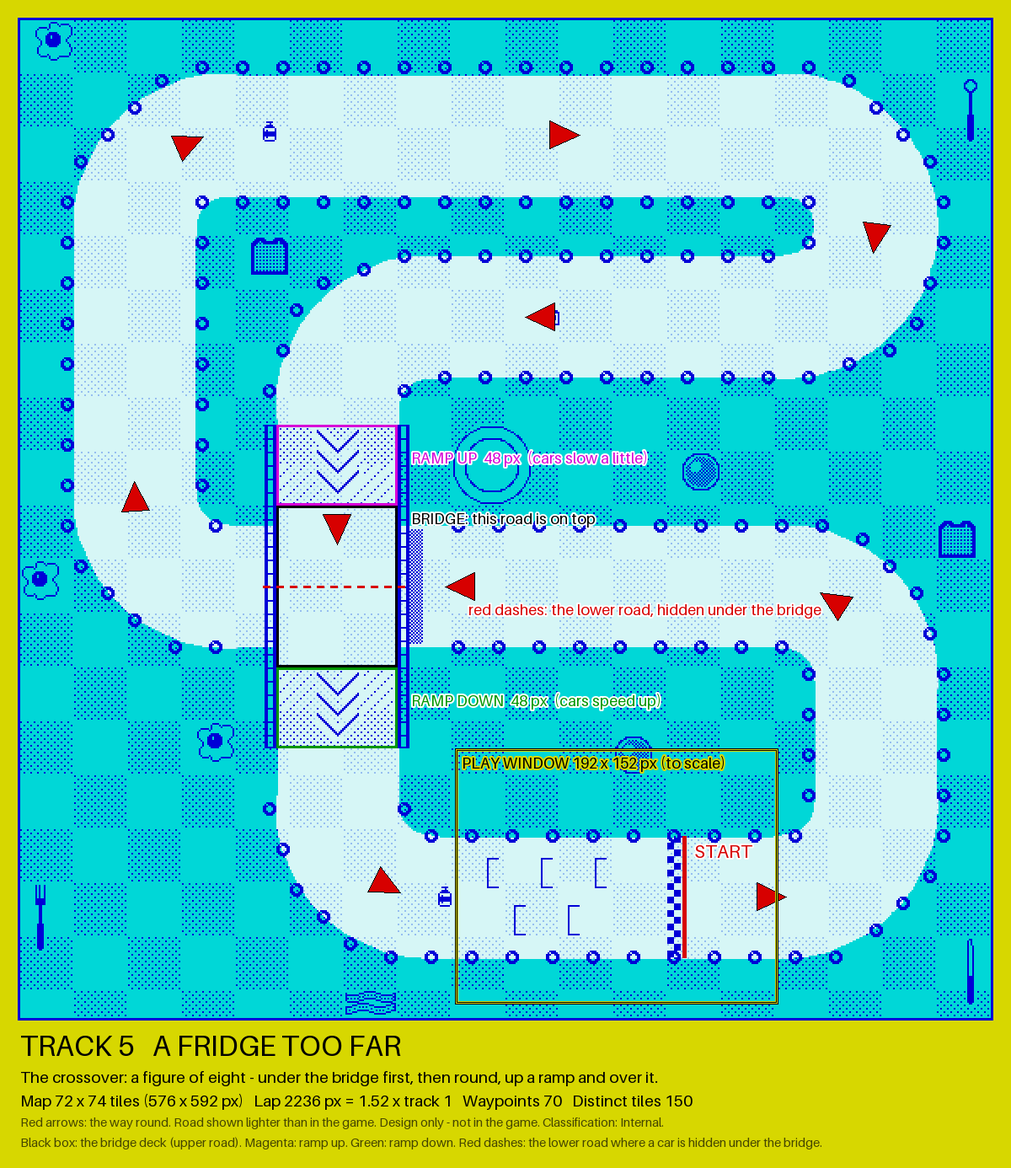
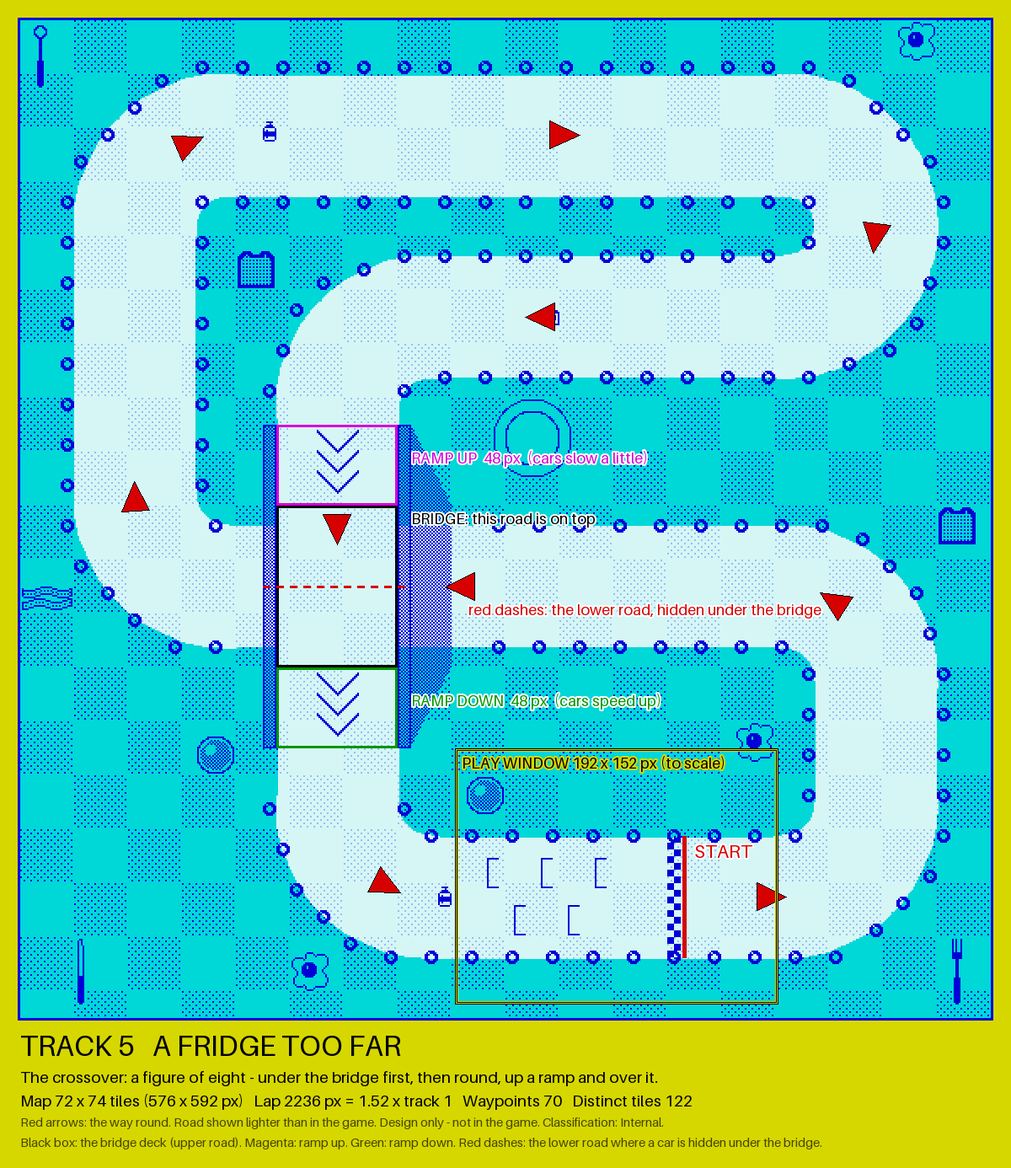
Track 5: the bridge's tapered shadow and plainer walls - a sheet of options
Claude-Session: https://claude.ai/code/session_01476U86GiAC8cKs57wAJvc3

diff --git a/tools/make_track_designs.py b/tools/make_track_designs.py
@@ -5,6 +5,7 @@ longer tracks. This script only makes design material - it does NOT touch the ga
     docs/design/tracks/track5.png                           the crossover track (a design: the game has no bridges)
     docs/design/tracks/crossover_closeup.png                how the bridge could be drawn, three ways
     docs/design/tracks/crossover_walls.png                  the bridge with side walls and no O's, three walls
+    docs/design/tracks/crossover_shadow.png                 the bridge with a tapering shadow; shadow and wall options
     docs/design/tracks/tracks_overview.png                  all five at the same scale
     docs/design/tracks/TRACKS.md                            the note, with the figures
     docs/design/tracks/tracks_data.json                     vertices, waypoints, figures
@@ -326,6 +327,55 @@ def walls_ink(b, variant):
             if on or end: out.add((x0 - k, y)); out.add((x1 + k, y))
     return out
 
+WALL8 = 8         # px: the later walls are one 8 x 8 colour cell wide, on the cell grid (so their paper could be white)
+SHADOW_MAX = 24   # px: how far the shadow reaches beside the level deck (the bridge at its highest)
+SHADOW_BOX = 84   # px to the right of the upper road's middle: no cereal O's there either (the shadow falls on that side)
+def bridge_height(b, y):
+    """0 at the foot of a ramp, 1 on the level deck."""
+    (u0, u1), (d0, d1), (r0, r1) = b['ramp_up'], b['deck'], b['ramp_down']
+    if u0 <= y < u1: return (y - u0) / (u1 - u0)
+    if d0 <= y < d1: return 1.0
+    if r0 <= y < r1: return (r1 - 1 - y) / (r1 - r0)
+    return 0.0
+def shadow_ink(b, shadow='S1', wall='V1'):
+    """The bridge with a shadow that shows its height (Grant, after crossover_walls.png): a wedge
+    of dither on the ground beside the bridge, nothing at the foot of each ramp, widest beside
+    the level deck - where it also lies across the lower road. Open deck, ramp arrows, no
+    shading on the ramps themselves (that cost about 30 tiles), walls 8 px wide on the cell grid.
+      shadow  S1 one flat 50% dither, to the right (light from the left)
+              S2 the same wedge graded: 50% by the wall, 25% in its outer half
+              S3 a smaller 50% shadow on both sides
+      wall    V1 a line each side with 50% dither between
+              V2 a two-tone bar: a 4 px blue stripe, a 3 px pale stripe, a line
+              V3 kerb blocks: 8 px blue, 8 px pale, alternating
+    Returns (ink pixels, pixels of the walls' cells) - the second for showing white paper."""
+    xc, yc = b['cross']; x0, x1 = xc - ROAD // 2, xc + ROAD // 2 - 1; out = set(); cells = set()
+    (u0, u1), (d0, d1), (r0, r1) = b['ramp_up'], b['deck'], b['ramp_down']
+    assert (x0 - WALL8) % 8 == 0 and (x1 + 1) % 8 == 0 and u0 % 8 == 0 and r1 % 8 == 0, 'the walls must sit on the 8 px cell grid'
+    for a, z in ((u0, u1), (r0, r1)):                           # the arrows down the ramps
+        for y in range(a + 4, z - 8, 12):
+            for k in range(0, 13):
+                for m in (-1, 1): out.add((xc + m * k, y + 12 - k)); out.add((xc + m * k, y + 11 - k))
+    for y in range(u0, r1):
+        h = bridge_height(b, y)
+        sides = ((1, SHADOW_MAX),) if shadow != 'S3' else ((1, SHADOW_MAX // 2), (-1, SHADOW_MAX // 2))
+        for side, wmax in sides:                                # the shadow: as wide as the bridge is high
+            w = int(round(h * wmax))
+            for i in range(w):
+                x = x1 + WALL8 + 1 + i if side > 0 else x0 - WALL8 - 1 - i
+                if shadow == 'S2' and i >= (w + 1) // 2: on = y % 2 == 0 and (x + y) % 4 == 0      # 25%
+                else: on = (x + y) % 2 == 0                                                        # 50%
+                if on: out.add((x, y))
+        for k in range(WALL8):                                  # the walls: k = 0 outside .. 7 beside the road
+            end = y in (u0, r1 - 1)
+            for x in (x0 - WALL8 + k, x1 + WALL8 - k):
+                cells.add((x, y))
+                if wall == 'V1': on = k in (0, WALL8 - 1) or (x + y) % 2 == 0
+                elif wall == 'V2': on = k < 4 or k == WALL8 - 1
+                else: on = k in (0, WALL8 - 1) or ((y - u0) // 8) % 2 == 0
+                if on or end: out.add((x, y))
+    return out, cells
+
 def build_world(t, walls=True):
     W, H, PATH, SY, LX = t['W'], t['H'], t['path'], t['sy'], t['lx']
     PW, PH = W * 8, H * 8
@@ -362,14 +412,18 @@ def build_world(t, walls=True):
         OS = [(ox, oy) for ox, oy in OS if not inner[ox + 4, oy + 4]]
         if walls:            # the bridge and its ramps have walls: no O's beside them, on either road
             b_ = t['bridge']
-            OS = [(ox, oy) for ox, oy in OS if not (abs(ox + 4 - b_['cross'][0]) <= WALL_BOX and b_['ramp_up'][0] - 4 <= oy + 4 <= b_['ramp_down'][1] + 4)]
+            right = WALL_BOX if walls == 'W3' else SHADOW_BOX   # (the shadow's side: no O's in the shadow)
+            OS = [(ox, oy) for ox, oy in OS if not (-WALL_BOX <= ox + 4 - b_['cross'][0] <= right and b_['ramp_up'][0] - 4 <= oy + 4 <= b_['ramp_down'][1] + 4)]
     for ox, oy in OS:
         for j, r in enumerate(O_RING):
             for i, c in enumerate(r):
                 if c == '#': px[ox + i, oy + j] = 1
     if t.get('bridge'):      # the bridge's own ink, so its tiles are counted: with walls (the double rail, W3 of
                              # crossover_walls.png), or the first idea (style A of crossover_closeup.png)
-        for (x, y) in (walls_ink(t['bridge'], 'W3') if walls else bridge_ink(t['bridge'], 'A')): px[x, y] = 1
+        # walls: False = the first idea (style A); 'W3' = crossover_walls.png's double rail; True = the tapering shadow
+        # S1 with the dithered wall V1 (the one in track5.png); or a (shadow, wall) pair from crossover_shadow.png
+        look = ('S1', 'V1') if walls is True else walls
+        for (x, y) in (bridge_ink(t['bridge'], 'A') if not walls else walls_ink(t['bridge'], 'W3') if walls == 'W3' else shadow_ink(t['bridge'], *look)[0]): px[x, y] = 1
     # the grid and the start line (track 1: the line at x = 288, the cars 40 .. 104 px behind it)
     LANE_A, LANE_B = SY - 14 - 8, SY + 14 - 8
     GRID = [(LX - 40, LANE_A), (LX - 56, LANE_B), (LX - 72, LANE_A), (LX - 88, LANE_B), (LX - 104, LANE_A)]
@@ -391,6 +445,10 @@ def build_world(t, walls=True):
     far = np.array(road_mask(ROAD + 24), dtype=bool)
     tile_far = far.reshape(H, 8, W, 8).any(axis=(1, 3))       # a tile with any of the road's band in it
     taken = set()
+    if t.get('bridge') and walls and walls != 'W3':            # no breakfast things in the bridge's shadow
+        b_ = t['bridge']
+        taken |= {(tx, ty) for tx in range((b_['cross'][0] - WALL_BOX) // 8, (b_['cross'][0] + SHADOW_BOX) // 8 + 1)
+                  for ty in range(b_['ramp_up'][0] // 8 - 1, b_['ramp_down'][1] // 8 + 1)}
     def free(tx, ty, w, h):
         for j in range(h):
             for i in range(w):
@@ -657,7 +715,7 @@ def closeup_picture(t, s=4):
 def walls_picture(t, s=4):
     """The bridge with side walls (Grant, after the first close-up): a mix of A and B, walls from
     ramp foot to ramp foot and no cereal O's beside them. One idea, three ways to draw the wall."""
-    b = t['bridge']; w = t['w']; xc, yc = b['cross']
+    b = t['bridge']; w = t['w_walls']; xc, yc = b['cross']
     cw, ch = 200, 216
     cx0, cy0 = xc - cw // 2 + 4, yc - ch // 2
     ink_c, sol_c = car_art('YOU')
@@ -700,6 +758,75 @@ def walls_picture(t, s=4):
         d.text((pad, y + i * 20), line, fill=(70, 70, 0) if i == 4 else BLACK, font=font(15))
     im.save(os.path.join(OUTDIR, 'crossover_walls.png'))
 
+def shadow_picture(t, s=4):
+    """A sheet of options for the bridge with a tapering shadow: three shadows (top row), then
+    wall drawings on shadow S1 (bottom row) - the two-tone walls with white paper and in cyan only."""
+    b = t['bridge']; w = t['w']; xc, yc = b['cross']
+    cw, ch = 176, 216; cx0, cy0 = xc - 72, yc - ch // 2
+    x0, x1 = xc - ROAD // 2, xc + ROAD // 2 - 1
+    ink_c, sol_c = car_art('YOU')
+    mine, _ = shadow_ink(b, 'S1', 'V1')
+    def halo(sol, n=2):                                         # a car's outline grown n px: the shadow stops short of it
+        P = np.pad(sol, n); out = P.copy()
+        for dy in range(-n, n + 1):
+            for dx in range(-n, n + 1): out |= np.roll(np.roll(P, dy, 0), dx, 1)
+        return out
+    def panel(shadow, wall, white):
+        base = w['ink'].copy()
+        for (x, y) in mine: base[y, x] = False                  # (the world was built with S1 + V1: take it off)
+        bit = base | w['cloth_on']
+        ink, cells = shadow_ink(b, shadow, wall)
+        for (x, y) in ink:                                      # the shadow lies on the ground and on the lower road
+            if x > x1 + WALL8 or x < x0 - WALL8: bit[y, x] = True
+        ci, cs = np.rot90(ink_c), np.rot90(sol_c)               # the car below, driving left, half under the bridge
+        cx, cy = x1 + WALL8 - 9, yc - 16
+        hl = halo(cs); bit[cy - 2:cy + 22, cx - 2:cx + 22][hl] = False
+        bit[cy:cy + 20, cx:cx + 20][ci] = True
+        bit[b['ramp_up'][0]:b['ramp_down'][1], x0 - WALL8:x1 + WALL8 + 1] = False     # the bridge, ramps and walls go over it
+        for (x, y) in ink:
+            if x0 - WALL8 <= x <= x1 + WALL8: bit[y, x] = True
+        ci, cs = np.rot90(ink_c, 2), np.rot90(sol_c, 2)         # the car on the deck, whole
+        sl = bit[yc - 34:yc - 14, xc - 22:xc - 2]; sl[cs] = False; sl[ci] = True
+        a = np.empty(bit.shape + (3,), dtype=np.uint8); a[:] = CYAN
+        if white:                                               # the walls' cells: blue ink on WHITE paper
+            for (x, y) in cells: a[y, x] = WHITE
+        a[bit] = BLUE
+        return Image.fromarray(a[cy0:cy0 + ch, cx0:cx0 + cw]).resize((cw * s, ch * s), Image.NEAREST)
+    tiles = lambda sh, wl: t['w']['tiles'] if (sh, wl) == ('S1', 'V1') else build_world(t, walls=(sh, wl))['tiles']
+    rows = [('SHADOW OPTIONS - the wall is V1 in all three. The shadow is as wide as the bridge is high: nothing at the foot of each ramp, widest beside the level deck.',
+             [('S1', 'V1', False, 'S1  FLAT SHADOW', ['one 50% dither, on the right', '(light from the left)']),
+              ('S2', 'V1', False, 'S2  GRADED SHADOW', ['50% by the wall, 25% in the', 'outer half of the wedge']),
+              ('S3', 'V1', False, 'S3  BOTH SIDES', ['a half-width 50% shadow', 'each side (light from above)'])]),
+            ('WALL OPTIONS - on shadow S1. V1 is in the top row. V2 and V3 are each shown twice: with WHITE paper in the walls\' cells, and in the window\'s own blue and cyan.',
+             [('S1', 'V2', True, 'V2  TWO-TONE BAR, WHITE', ['blue stripe, white stripe', 'needs white-paper cells (a cost)']),
+              ('S1', 'V2', False, 'V2  THE SAME IN CYAN ONLY', ['blue stripe, cyan stripe', 'what the game can do today']),
+              ('S1', 'V3', True, 'V3  KERB BLOCKS, WHITE', ['blue and white blocks, 8 px each', 'needs white-paper cells (a cost)']),
+              ('S1', 'V3', False, 'V3  THE SAME IN CYAN ONLY', ['blue and cyan blocks', 'what the game can do today'])])]
+    pad, head, rhead, cap, foot = 24, 56, 34, 104, 150
+    wid = pad + (cw * s + pad) * 4; rowh = rhead + ch * s + cap
+    im = Image.new('RGB', (wid, head + rowh * len(rows) + foot), YELLOW); d = ImageDraw.Draw(im)
+    d.text((pad, 12), 'TRACK 5 BRIDGE - a shadow that shows the height, and softer walls (mock-up, 4x, the game\'s blue ink on cyan)', fill=BLACK, font=font(28))
+    for r, (title, panels) in enumerate(rows):
+        y0 = head + r * rowh
+        d.text((pad, y0 + 4), title, fill=BLACK, font=font(19))
+        for k, (sh, wl, white, name, sub) in enumerate(panels):
+            x = pad + k * (cw * s + pad); y = y0 + rhead
+            im.paste(panel(sh, wl, white), (x, y))
+            d.rectangle([x - 2, y - 2, x + cw * s + 1, y + ch * s + 1], outline=BLUE, width=2)
+            d.text((x, y + ch * s + 6), name, fill=BLACK, font=font(24))
+            for i, line in enumerate(sub + ['track 5 would need %d tiles' % tiles(sh, wl)]):
+                d.text((x, y + ch * s + 36 + i * 20), line, fill=BLACK, font=font(17))
+    y = head + rowh * len(rows) + 4
+    for i, line in enumerate([
+            'In every picture: open deck, arrows on the ramps, no shading on the ramps themselves, no cereal O\'s beside the bridge or in its shadow, one car on the deck, one on the lower road half hidden going under.',
+            'The shadow stops 2 px short of a car\'s outline, so the car coming out from under the bridge stays clear. The lower road is shaded where the shadow crosses it, beside the deck.',
+            'COLOUR TRUTH: the play window is blue ink on cyan paper, and a Spectrum cell (8 x 8 px) holds only two colours. White is possible only because each wall here is exactly one cell wide, on the cell grid,',
+            'with nothing cyan inside those cells - their paper is switched to white. The game does not change cell colours inside the scrolling window today: doing it would cost speed whenever the bridge is in view',
+            '(an estimate - not measured), and the white cells could only move 8 px at a time while the picture scrolls by the pixel. The "cyan only" pictures need none of that.',
+            'A mock-up drawn by tools/make_track_designs.py - not from the game, which has no bridges yet. Classification: Internal.']):
+        d.text((pad, y + i * 22), line, fill=(70, 70, 0) if i == 5 else BLACK, font=font(16))
+    im.save(os.path.join(OUTDIR, 'crossover_shadow.png'))
+
 # ------------------------------------------------------------------ measure, check, write
 def main():
     os.makedirs(OUTDIR, exist_ok=True)
@@ -707,7 +834,9 @@ def main():
     for t in TRACKS:
         p = t['path']; t['lap'] = lap_length(p); t['mult'] = t['lap'] / base
         t['w'] = build_world(t)
-        if t.get('bridge'): t['w_open'] = build_world(t, walls=False)     # (as first drawn: O's by the bridge, no walls)
+        if t.get('bridge'):
+            t['w_open'] = build_world(t, walls=False)     # (as first drawn: O's by the bridge, no walls)
+            t['w_walls'] = build_world(t, walls='W3')     # (as crossover_walls.png was drawn)
         xs, ys = [q[0] for q in p], [q[1] for q in p]
         t['margin'] = min(min(xs), t['W'] * 8 - max(xs), min(ys), t['H'] * 8 - max(ys))
         t['crossings'] = self_crossings(p)
@@ -759,7 +888,7 @@ def main():
         gridd = min(math.hypot(gx + 10 - xc, gy + 10 - yc) for gx, gy in t['w']['GRID'])
         os_on = sum(1 for ox, oy in t['w']['OS'] if abs(ox + 4 - xc) < 60 and abs(oy + 4 - yc) < 60
                     and (abs(ox + 4 - xc) < ROAD // 2 - 4 or abs(oy + 4 - yc) < ROAD // 2 - 4))
-        os_wall = sum(1 for ox, oy in t['w']['OS'] if abs(ox + 4 - xc) <= WALL_BOX and b['ramp_up'][0] - 4 <= oy + 4 <= b['ramp_down'][1] + 4)
+        os_wall = sum(1 for ox, oy in t['w']['OS'] if -WALL_BOX <= ox + 4 - xc <= SHADOW_BOX and b['ramp_up'][0] - 4 <= oy + 4 <= b['ramp_down'][1] + 4)
         wl = [1 if abs(x - xc) < 2 and b['ramp_up'][0] <= y <= b['ramp_down'][1] else 0 for x, y in t['w']['wps']]
         t['wp_levels'] = wl
         xp = t['xpts']
@@ -771,7 +900,7 @@ def main():
             ('crossing to the start straight (px between the middles of the roads; want >= 150)', float(t['sy'] - yc), t['sy'] - yc >= 150),
             ('crossing to the nearest grid box (px; want >= 150)', gridd, gridd >= 150),
             ('cereal O\'s standing on either road at the crossing (count)', os_on, os_on == 0),
-            ('cereal O\'s beside the bridge or its ramps, where the walls are (count)', os_wall, os_wall == 0),
+            ('cereal O\'s beside the bridge or its ramps, or in its shadow (count)', os_wall, os_wall == 0),
             ('waypoints on the upper level (ramps and deck)', sum(wl), sum(wl) >= 3),
         ]
         t['bridge_checks'] = bc
@@ -781,7 +910,7 @@ def main():
             print('   %s  %-90s %s' % ('PASS' if ok else 'FAIL', what, ('%.1f' % val) if isinstance(val, float) else val))
     for t in TRACKS[1:]: track_picture(t)
     for t in TRACKS:
-        if t.get('bridge'): closeup_picture(t); walls_picture(t)
+        if t.get('bridge'): closeup_picture(t); walls_picture(t); shadow_picture(t)
     overview_picture(TRACKS)
     json.dump([dict(track=t['n'], name=t['name'], map_tiles=[t['W'], t['H']], lap_px=round(t['lap'], 1), multiple=round(t['mult'], 3),
                     waypoints=t['w']['wps'], distinct_tiles=t['w']['tiles'], cereal_os=len(t['w']['OS']),
@@ -807,7 +936,7 @@ HARD = {
         "The start straight is short (222 pixels): the grid fits, but the first bend comes sooner after the line than on track 1."],
     5: ["**The game cannot do this today: it has no bridges.** Everything under 'What the crossover needs in the game' below is new work.",
         "Needs a taller map: 74 rows instead of 64 (the same 72 wide), with the same changes as track 3.",
-        "The bridge's pictures add tiles (counted here with the double-rail walls, W3), and its deck needs a mask so it can be redrawn over a car underneath.",
+        "The bridge's pictures add tiles (counted here with the tapering shadow S1 and the dithered wall V1), and its deck needs a mask so it can be redrawn over a car underneath.",
         "The start straight is the shortest of all five: the grid fits, with as much room behind the line as it needs but less after it than track 1."],
 }
 NEEDS = [
@@ -837,8 +966,11 @@ def crossover_note(t):
           '- `crossover_walls.png` is the follow-up Grant asked for: A and B combined, with solid side walls and no cereal O\'s on the bridge. Three ways to draw the wall: W1 brick parapet, W2 thick rail with posts, W3 double rail.',
           '- **Walls stop a car leaving the bridge.** They run down both sides from the foot of the ramp up to the foot of the ramp down (y %d to %d, at x = %d and x = %d). In the game that is a collision with a straight line - "on the upper level, between these two y values, x may not pass this value" - which should be simpler than the O collisions, as an estimate (not tried).'
           % (b['ramp_up'][0], b['ramp_down'][1], xc - ROAD // 2, xc + ROAD // 2),
-          '- **Fewer cereal O\'s.** With walls there instead, the O\'s beside the bridge and its ramps are gone: track 5 has %d O\'s (it had %d before the walls). The upper road\'s O\'s stop where the ramp walls start; the lower road\'s stop %d pixels either side of the bridge\'s middle.'
-          % (len(t['w']['OS']), len(t['w_open']['OS']), WALL_BOX), '',
+          '- **Fewer cereal O\'s.** With walls there instead, the O\'s beside the bridge and its ramps are gone: track 5 has %d O\'s (it had %d before the walls). The upper road\'s O\'s stop where the ramp walls start; the lower road\'s stop %d pixels to the left of the bridge\'s middle and %d to the right (clear of the shadow).'
+          % (len(t['w']['OS']), len(t['w_open']['OS']), WALL_BOX, SHADOW_BOX),
+          '- `crossover_shadow.png` is the next step Grant asked for: the bridge\'s height shown by a **shadow of dither beside it** - nothing at the foot of each ramp, widening up the ramp, widest (%d pixels) beside the level deck where it also lies across the lower road, then tapering away down the other ramp. Shadow options S1 flat, S2 graded, S3 both sides; wall options V1 dithered, V2 two-tone bar, V3 kerb blocks.' % SHADOW_MAX,
+          '- **In `track5.png` and the figures: shadow S1 with wall V1** - the cheapest that reads well. The ramps themselves are no longer shaded (that alone cost about 30 tiles): track 5 now needs %d distinct tiles, against %d with the shaded ramps of `crossover_walls.png` and %d for the first plain idea.' % (t['w']['tiles'], t['w_walls']['tiles'], t['w_open']['tiles']),
+          '- **White in the walls (V2, V3) has a price.** The window is blue ink on cyan paper and a Spectrum cell holds two colours, so white needs the walls\' cells switched to white paper. The walls are drawn one cell wide on the cell grid so that it is possible, but the game does not change cell colours inside the scrolling window today; it would cost speed and the white would move in 8-pixel steps. An estimate, not tried. The sheet shows both in cyan only as well.', '',
           'Crossover checks the script ran:', '', '| Check | Result |', '|---|---|']
     for what, val, ok in t['bridge_checks']:
         L.append('| %s | %s - %s |' % (what, ('%.1f' % val) if isinstance(val, float) else val, 'pass' if ok else 'FAIL'))
@@ -855,7 +987,7 @@ def write_note(tracks):
           'Classification: Internal', '',
           'These are **designs only**. Nothing here is in the game yet, and the game was not changed.',
           'Made by `tools/make_track_designs.py` (run it again to redraw the pictures and this note).',
-          'Pictures: `track2.png` to `track5.png`, all five side by side in `tracks_overview.png`, and the bridge close up in `crossover_closeup.png` (first ideas) and `crossover_walls.png` (with side walls).', '',
+          'Pictures: `track2.png` to `track5.png`, all five side by side in `tracks_overview.png`, and the bridge close up in `crossover_closeup.png` (first ideas), `crossover_walls.png` (with side walls) and `crossover_shadow.png` (tapering shadow, softer walls).', '',
           '## The figures', '',
           '| | Name | Map (tiles) | Lap (pixels) | Times track 1 | Waypoints | Distinct tiles | Cereal O\'s | Map data (bytes, estimate) |',
           '|---|---|---|---|---|---|---|---|---|']

diff --git a/docs/design/tracks/TRACKS.md b/docs/design/tracks/TRACKS.md
@@ -4,7 +4,7 @@ Classification: Internal
 
 These are **designs only**. Nothing here is in the game yet, and the game was not changed.
 Made by `tools/make_track_designs.py` (run it again to redraw the pictures and this note).
-Pictures: `track2.png` to `track5.png`, all five side by side in `tracks_overview.png`, and the bridge close up in `crossover_closeup.png` (first ideas) and `crossover_walls.png` (with side walls).
+Pictures: `track2.png` to `track5.png`, all five side by side in `tracks_overview.png`, and the bridge close up in `crossover_closeup.png` (first ideas), `crossover_walls.png` (with side walls) and `crossover_shadow.png` (tapering shadow, softer walls).
 
 ## The figures
 
@@ -14,7 +14,7 @@ Pictures: `track2.png` to `track5.png`, all five side by side in `tracks_overvie
 | 2 | THE BREAKFAST CLUB | 72 x 64 | 2125 | 1.44 | 66 | 104 | 176 | 3110 |
 | 3 | BREAKFAST OF CHAMPIONS | 72 x 84 | 2510 | 1.70 | 78 | 107 | 207 | 3670 |
 | 4 | THE DANISH GIRL | 72 x 91 | 2958 | 2.01 | 92 | 104 | 246 | 3937 |
-| 5 | A FRIDGE TOO FAR | 72 x 74 | 2236 | 1.52 | 70 | 150 | 158 | 4006 |
+| 5 | A FRIDGE TOO FAR | 72 x 74 | 2236 | 1.52 | 70 | 122 | 156 | 3740 |
 
 - **Lap** is the length of the middle of the road, once round.
 - **Waypoints** are the points the computer cars steer by, one every 32 pixels as on track 1.
@@ -81,9 +81,9 @@ The crossover: a figure of eight - under the bridge first, then round, up a ramp
 
 - Map: 72 x 74 tiles (576 x 592 pixels). Track 1 is 72 x 64.
 - Lap: 2236 pixels, **1.52 times** track 1 (1473).
-- Waypoints: 70 (track 1: 46). Cereal O's: 158 (track 1: 128).
-- Distinct tiles: 150 (track 1: 99).
-- Map data: about 4006 bytes (track 1: about 2902) - +1104.
+- Waypoints: 70 (track 1: 46). Cereal O's: 156 (track 1: 128).
+- Distinct tiles: 122 (track 1: 99).
+- Map data: about 3740 bytes (track 1: about 2902) - +838.
 - Tightest corner: 54 pixel radius (track 1's arcs: 54; its dip is sharper). Start straight: 211 pixels (track 1: 326).
 - Least cloth between two stretches of road: 4.5 tiles.
 
@@ -91,7 +91,7 @@ What would make it hard to put in the game:
 
 - **The game cannot do this today: it has no bridges.** Everything under 'What the crossover needs in the game' below is new work.
 - Needs a taller map: 74 rows instead of 64 (the same 72 wide), with the same changes as track 3.
-- The bridge's pictures add tiles (counted here with the double-rail walls, W3), and its deck needs a mask so it can be redrawn over a car underneath.
+- The bridge's pictures add tiles (counted here with the tapering shadow S1 and the dithered wall V1), and its deck needs a mask so it can be redrawn over a car underneath.
 - The start straight is the shortest of all five: the grid fits, with as much room behind the line as it needs but less after it than track 1.
 
 #### The crossover, as designed
@@ -106,7 +106,10 @@ What would make it hard to put in the game:
 - `crossover_closeup.png` shows the first three ways the bridge could be drawn, in the game's two colours: A plain rails, B rails with posts and a shadow, C a planked deck.
 - `crossover_walls.png` is the follow-up Grant asked for: A and B combined, with solid side walls and no cereal O's on the bridge. Three ways to draw the wall: W1 brick parapet, W2 thick rail with posts, W3 double rail.
 - **Walls stop a car leaving the bridge.** They run down both sides from the foot of the ramp up to the foot of the ramp down (y 240 to 432, at x = 152 and x = 224). In the game that is a collision with a straight line - "on the upper level, between these two y values, x may not pass this value" - which should be simpler than the O collisions, as an estimate (not tried).
-- **Fewer cereal O's.** With walls there instead, the O's beside the bridge and its ramps are gone: track 5 has 158 O's (it had 172 before the walls). The upper road's O's stop where the ramp walls start; the lower road's stop 56 pixels either side of the bridge's middle.
+- **Fewer cereal O's.** With walls there instead, the O's beside the bridge and its ramps are gone: track 5 has 156 O's (it had 172 before the walls). The upper road's O's stop where the ramp walls start; the lower road's stop 56 pixels to the left of the bridge's middle and 84 to the right (clear of the shadow).
+- `crossover_shadow.png` is the next step Grant asked for: the bridge's height shown by a **shadow of dither beside it** - nothing at the foot of each ramp, widening up the ramp, widest (24 pixels) beside the level deck where it also lies across the lower road, then tapering away down the other ramp. Shadow options S1 flat, S2 graded, S3 both sides; wall options V1 dithered, V2 two-tone bar, V3 kerb blocks.
+- **In `track5.png` and the figures: shadow S1 with wall V1** - the cheapest that reads well. The ramps themselves are no longer shaded (that alone cost about 30 tiles): track 5 now needs 122 distinct tiles, against 150 with the shaded ramps of `crossover_walls.png` and 118 for the first plain idea.
+- **White in the walls (V2, V3) has a price.** The window is blue ink on cyan paper and a Spectrum cell holds two colours, so white needs the walls' cells switched to white paper. The walls are drawn one cell wide on the cell grid so that it is possible, but the game does not change cell colours inside the scrolling window today; it would cost speed and the white would move in 8-pixel steps. An estimate, not tried. The sheet shows both in cyan only as well.
 
 Crossover checks the script ran:
 
@@ -119,7 +122,7 @@ Crossover checks the script ran:
 | crossing to the start straight (px between the middles of the roads; want >= 150) | 184.0 - pass |
 | crossing to the nearest grid box (px; want >= 150) | 200.0 - pass |
 | cereal O's standing on either road at the crossing (count) | 0 - pass |
-| cereal O's beside the bridge or its ramps, where the walls are (count) | 0 - pass |
+| cereal O's beside the bridge or its ramps, or in its shadow (count) | 0 - pass |
 | waypoints on the upper level (ramps and deck) | 6 - pass |
 
 #### What the crossover needs in the game
@@ -163,6 +166,6 @@ For each new track: the middle line is closed and smooth; it never crosses itsel
 | start straight | 326.0 (yardstick) | 331.0 - pass | 271.0 - pass | 222.0 - pass | 211.0 - pass |
 | five grid boxes all on the road | 1 (yardstick) | 1 - pass | 1 - pass | 1 - pass | 1 - pass |
 | lap at least 1.4 x track 1 | 1.0 (yardstick) | 1.4 - pass | 1.7 - pass | 2.0 - pass | 1.5 - pass |
-| distinct tiles within the game's 256 | 99 (yardstick) | 104 - pass | 107 - pass | 104 - pass | 150 - pass |
+| distinct tiles within the game's 256 | 99 (yardstick) | 104 - pass | 107 - pass | 104 - pass | 122 - pass |
 
 Not checked: the tracks have not been driven - not built into the game, so nothing here says how they play, how fast a lap is, or whether the computer cars cope.
